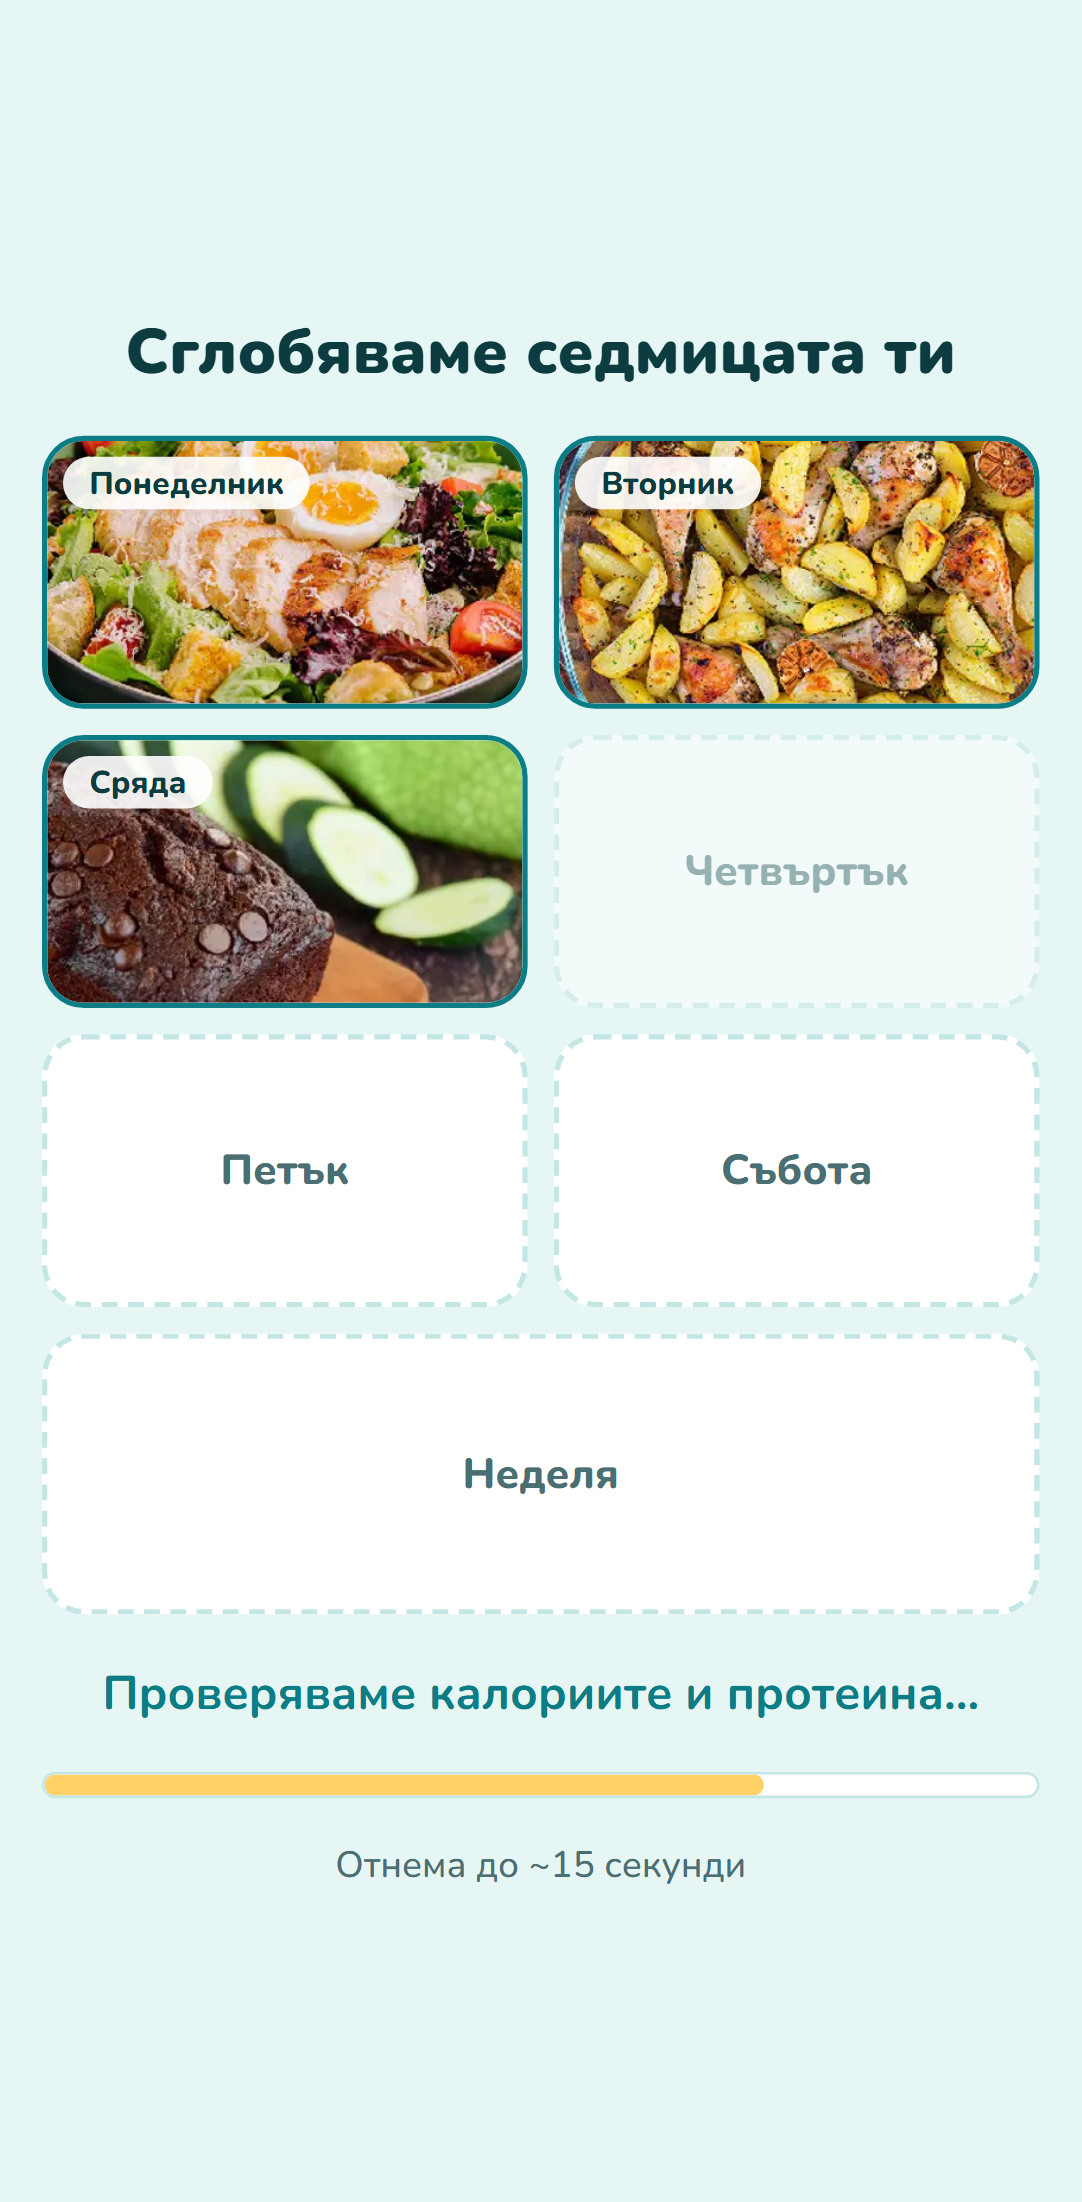
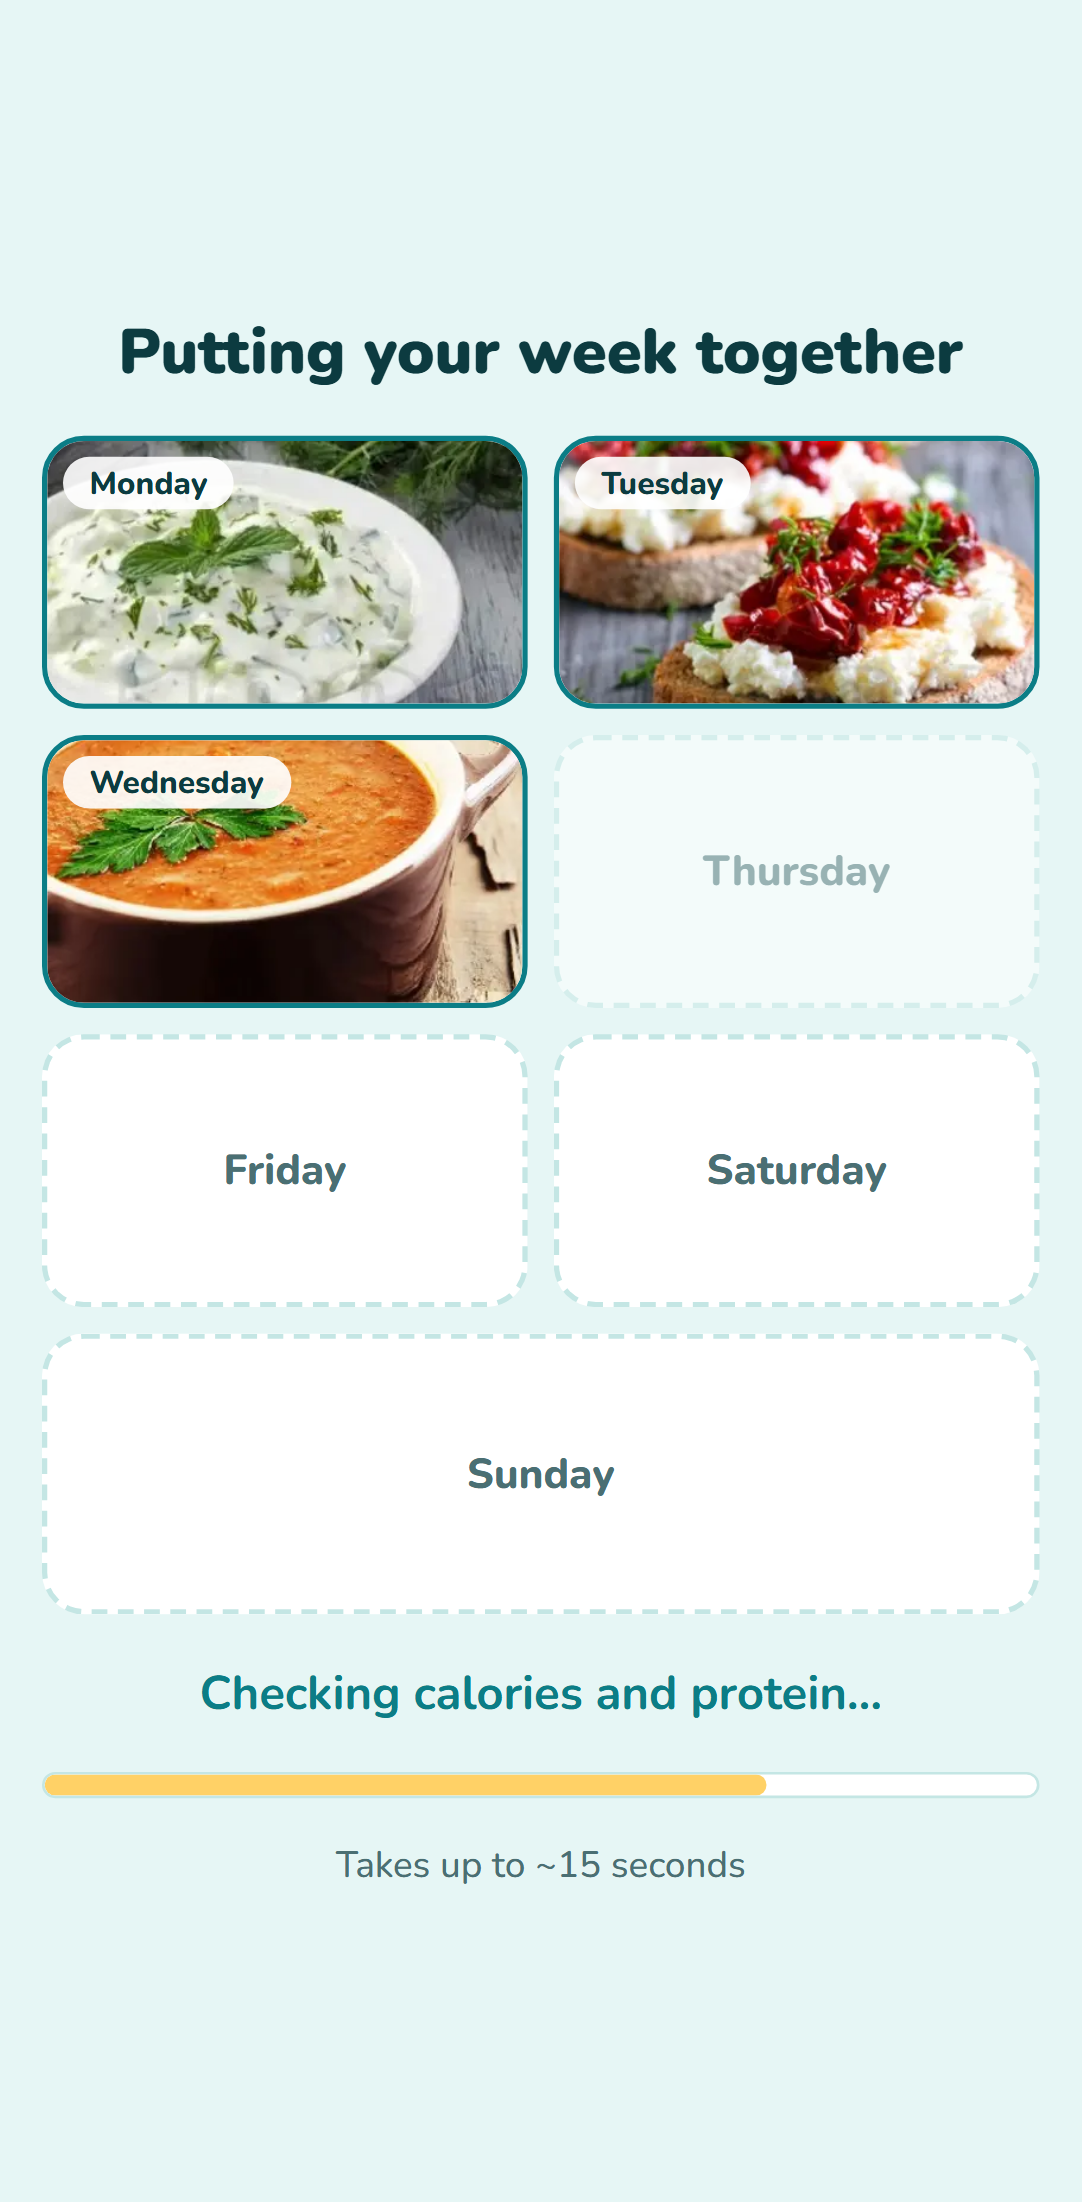
README screenshots in English
Retake the six README screenshots with the app switched to English (the
script sets the language cookie). eBag product names stay as eBag shows them.

diff --git a/e2e/screenshots.spec.ts b/e2e/screenshots.spec.ts
@@ -1,17 +1,17 @@
-// Screenshots for the README (docs/screenshots/): a guest's whole path on a phone, against the test project.
+// Screenshots for the README (docs/screenshots/), in English: a guest's whole path on a phone, against the test project.
 // Not a test: runs only on request, then deletes the guest.
 //   SCREENSHOTS=1 npx playwright test screenshots --project=android
 import { expect, test, type Page } from "@playwright/test";
 import { blockEbag, messages } from "./support";
 
-const bg = {
-  welcome: messages("bg", "welcome"),
-  onboarding: messages("bg", "onboarding"),
-  options: messages("bg", "options"),
-  nav: messages("bg", "nav"),
-  plan: messages("bg", "plan"),
-  list: messages("bg", "list"),
-  profile: messages("bg", "profile"),
+const en = {
+  welcome: messages("en", "welcome"),
+  onboarding: messages("en", "onboarding"),
+  options: messages("en", "options"),
+  nav: messages("en", "nav"),
+  plan: messages("en", "plan"),
+  list: messages("en", "list"),
+  profile: messages("en", "profile"),
 };
 
 test.skip(!process.env.SCREENSHOTS, "only on request: SCREENSHOTS=1");
@@ -25,39 +25,41 @@ const shot = async (page: Page, name: string) => {
 test("README screenshots", async ({ page }) => {
   test.setTimeout(240_000);
   await blockEbag(page);
-  const next = () => page.getByRole("button", { name: bg.onboarding.next }).click();
+  // The app's language switch is a cookie (lib/i18n/config.ts: LOCALE_COOKIE).
+  await page.context().addCookies([{ name: "lang", value: "en", url: test.info().project.use.baseURL! }]);
+  const next = () => page.getByRole("button", { name: en.onboarding.next }).click();
 
   await page.goto("/");
-  await expect(page.getByRole("link", { name: bg.welcome.start })).toBeVisible();
+  await expect(page.getByRole("link", { name: en.welcome.start })).toBeVisible();
   await shot(page, "welcome");
 
-  await page.getByRole("link", { name: bg.welcome.start }).click();
-  await page.getByRole("radio", { name: bg.options.sex.female }).click();
+  await page.getByRole("link", { name: en.welcome.start }).click();
+  await page.getByRole("radio", { name: en.options.sex.female }).click();
   await next();
-  await page.getByLabel(bg.onboarding.age).fill("58");
-  await page.getByLabel(bg.onboarding.height).fill("164");
-  await page.getByLabel(bg.onboarding.weight).fill("68");
+  await page.getByLabel(en.onboarding.age).fill("58");
+  await page.getByLabel(en.onboarding.height).fill("164");
+  await page.getByLabel(en.onboarding.weight).fill("68");
   await next();
-  await page.getByRole("radio", { name: new RegExp(`^${bg.options.activity.light.label}`) }).click();
+  await page.getByRole("radio", { name: new RegExp(`^${en.options.activity.light.label}`) }).click();
   await next();
-  await page.getByRole("radio", { name: new RegExp(`^${bg.options.goal.lose.label}`) }).click();
+  await page.getByRole("radio", { name: new RegExp(`^${en.options.goal.lose.label}`) }).click();
   await shot(page, "onboarding");
   await next();
   await page.getByRole("radio", { name: "100 €" }).click();
   await next();
-  await page.getByRole("radio", { name: bg.options.diet.none }).click();
+  await page.getByRole("radio", { name: en.options.diet.none }).click();
   await next();
   await next();
   await next();
-  await page.getByRole("checkbox", { name: bg.onboarding.consentCheckbox }).check();
-  await page.getByRole("button", { name: bg.onboarding.finish }).click();
+  await page.getByRole("checkbox", { name: en.onboarding.consentCheckbox }).check();
+  await page.getByRole("button", { name: en.onboarding.finish }).click();
 
   // The loading screen, a few days already filled.
   await expect(page.getByRole("status")).toBeVisible();
   await page.waitForTimeout(5200);
   await page.screenshot({ path: "docs/screenshots/loading.png" });
 
-  const days = page.getByRole("tablist", { name: bg.plan.week.days });
+  const days = page.getByRole("tablist", { name: en.plan.week.days });
   await expect(days).toBeVisible({ timeout: 90_000 });
   await page.waitForTimeout(500);
   await shot(page, "plan");
@@ -68,14 +70,14 @@ test("README screenshots", async ({ page }) => {
   await page.waitForTimeout(800);
   await shot(page, "list");
 
-  await page.getByRole("link", { name: bg.list.sendToEbag }).click();
+  await page.getByRole("link", { name: en.list.sendToEbag }).click();
   await expect(page).toHaveURL(/\/ebag$/);
   await shot(page, "ebag");
 
   // Clean up: the guest deletes their data.
-  await page.getByRole("navigation").getByRole("link", { name: bg.nav.profile, exact: true }).click();
-  await page.getByRole("link", { name: bg.profile.deleteGuestLink }).click();
-  await page.getByRole("checkbox", { name: bg.profile.delete.confirm }).check();
-  await page.getByRole("button", { name: bg.profile.delete.submit }).click();
+  await page.getByRole("navigation").getByRole("link", { name: en.nav.profile, exact: true }).click();
+  await page.getByRole("link", { name: en.profile.deleteGuestLink }).click();
+  await page.getByRole("checkbox", { name: en.profile.delete.confirm }).check();
+  await page.getByRole("button", { name: en.profile.delete.submit }).click();
   await expect(page).toHaveURL(/\/login\?deleted=1$/);
 });

diff --git a/docs/DEVELOPMENT.md b/docs/DEVELOPMENT.md
@@ -159,7 +159,7 @@ header sets a `lang` cookie (and `profiles.options.lang`, so it follows the user
 
 ## README screenshots
 
-The phone screenshots in `docs/screenshots/` come from the real app: a guest goes through the questions, gets a
+The phone screenshots in `docs/screenshots/` come from the real app, in English: a guest goes through the questions, gets a
 plan and opens the list and the eBag screen, against the test Supabase project (same setup as the E2E tests).
 The guest is deleted at the end.
 
